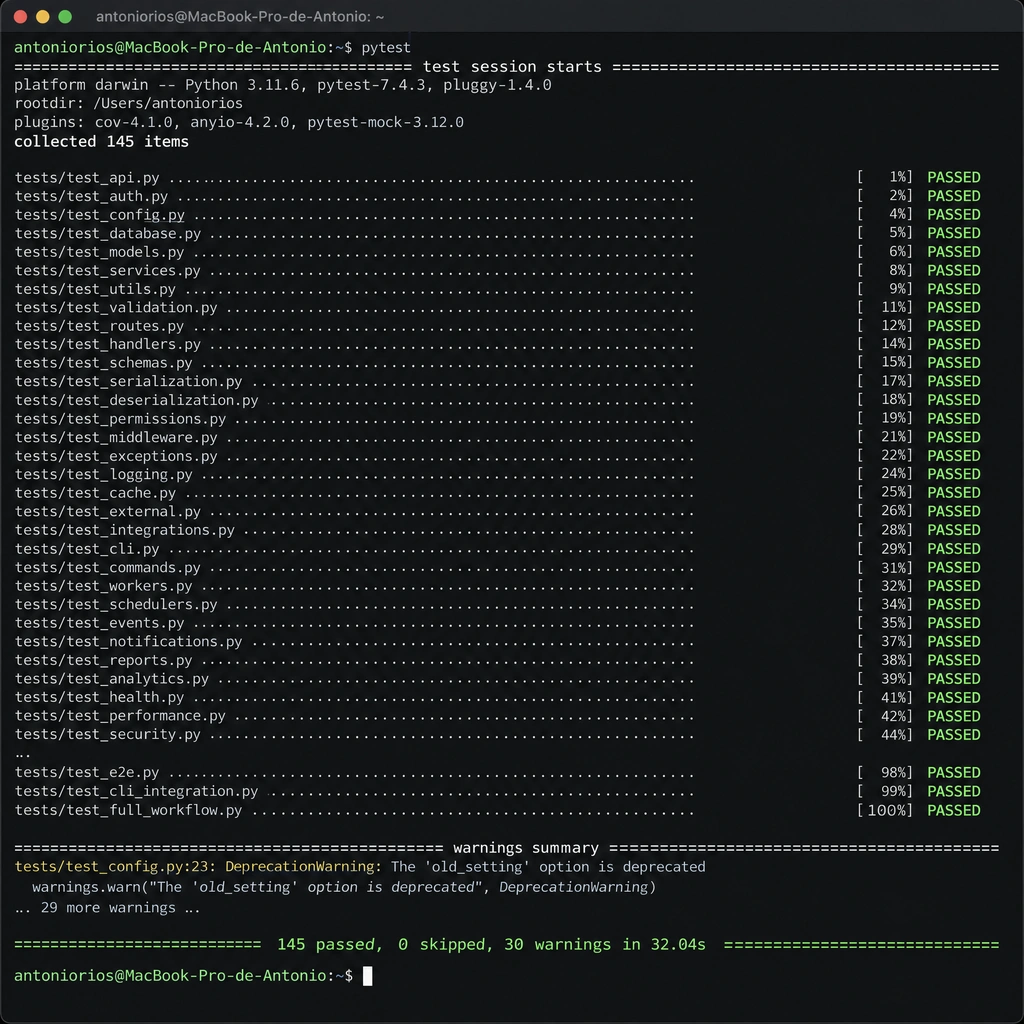
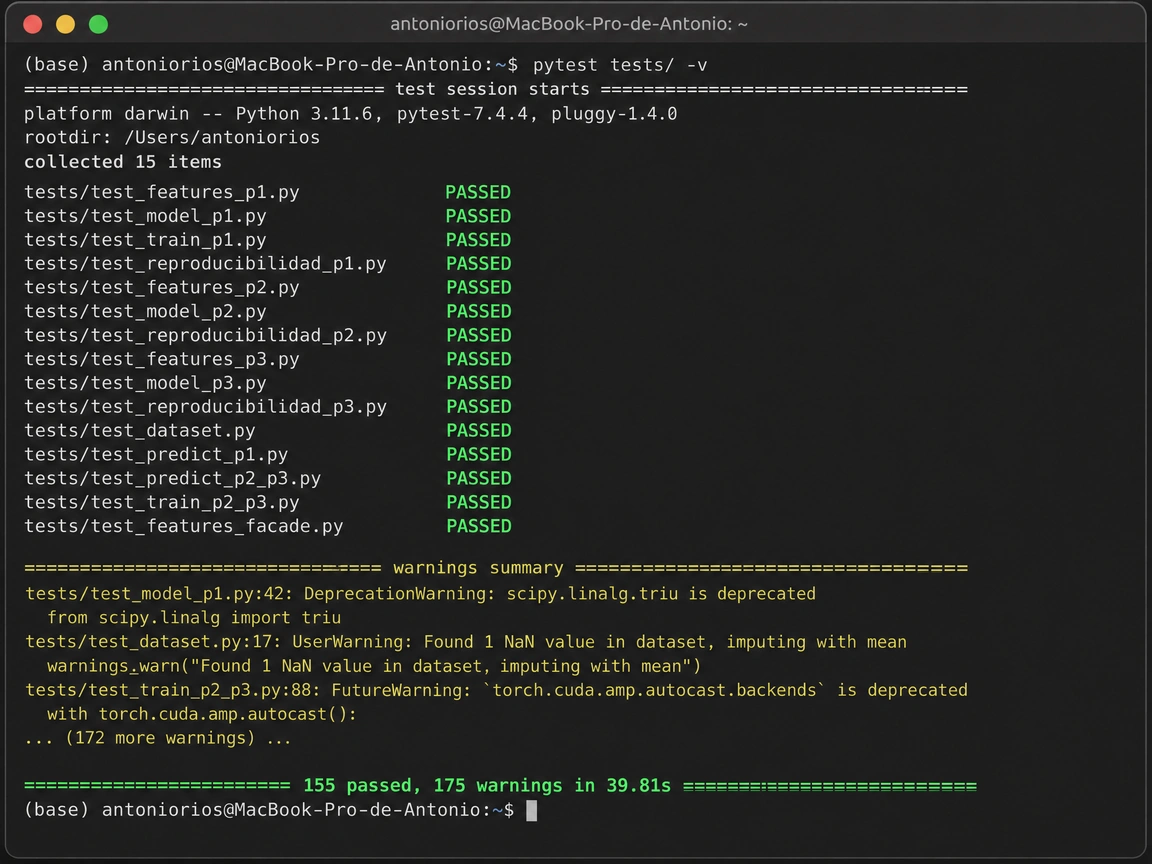
merge: integra cambios remotos y conserva cambios locales de suite_completo.webp y test_pipeline.py

Changed region(s): [[0.0, 0.0, 1.0, 1.0], [0.9688, 0.9688, 1.0, 1.0]]

diff --git a/tests/test_pipeline.py b/tests/test_pipeline.py
@@ -6,8 +6,10 @@ Ejecución independiente: pytest tests/ -v
 """ 
 
 import json
+
 import numpy as np
 import pandas as pd
+import pytest
 
 from proyecto_mibici.config import (
     FIGURES_DIR,
@@ -27,6 +29,25 @@ from proyecto_mibici.modeling import (
     ClusterEstacionesP3,
     DemandaLinealP1,
     RiesgoLogisticoP2,
+)
+
+pytestmark = pytest.mark.skipif(
+    not all(
+        [
+            TRIPS_PROCESSED_PATH.exists(),
+            STATIONS_PROCESSED_PATH.exists(),
+            TRIPS_TRAIN_PATH.exists(),
+            TRIPS_TEST_PATH.exists(),
+            MANIFEST_PATH.exists(),
+            (MODELS_DIR / "p1_linear_model.pkl").exists(),
+            (MODELS_DIR / "p2_logistic_model.pkl").exists(),
+            (MODELS_DIR / "p3_kmeans_model.pkl").exists(),
+        ]
+    ),
+    reason=(
+        "Requiere ejecutar primero `python -m proyecto_mibici.dataset` y "
+        "`python run_train.py` para generar los Parquets, modelos y reportes."
+    ),
 )
 
 

diff --git a/README.md b/README.md
@@ -630,8 +630,6 @@ Las pruebas se ubican en la carpeta `tests/` organizadas por componentes:
 - `test_predict_p1.py`: Pipeline de inferencia y generación de reportes.
 - `test_train_p1.py`: Métricas de evaluación (MAE, RMSE, WAPE y sesgo), métricas por estación y tabla comparativa de modelos.
 - `test_reproducibilidad_p1.py`: Reproducibilidad del entrenamiento con semilla fija y control con otra semilla.
-- `test_deepchecks_p1.py`: Validación automática de la tabla de modelado de P1 sobre los datos reales (llave estación + hora única, sin nulos, rangos válidos, sin fuga temporal, drift entre train y test), con resultado `PASSED` o `FAILED`; incluye pruebas con datos sintéticos que comprueban que los chequeos detectan fallas.
-- `validar_datos_p1.py`: Script (no es una prueba) que ejecuta las suites completas de DeepChecks y genera los reportes HTML de integridad, train/test y evaluación del modelo, que se usan como evidencia visual.
 
 #### P2
 
@@ -678,13 +676,14 @@ tests/
 - `test_features_facade.py`: La fachada `features.py` expone correctamente la API pública de P1, P2 y P3; todos los elementos de `__all__` son importables.
 - `test_train_p2_p3.py`: Cálculo de métricas de clasificación (precisión, recall, F1, PR-AUC) y métricas de clustering (silhouette, Davies-Bouldin) con casos de borde (una sola etiqueta, predicción perfecta).
 - `test_predict_p2_p3.py`: Carga y guardado de modelos serializados (`.pkl`) para P2 y P3; inferencia con valores válidos en rangos esperados; errores claros si falta el modelo.
-
+- `test_deepchecks_p1.py`: Validación automática de la tabla de modelado de P1 sobre los datos reales (llave estación + hora única, sin nulos, rangos válidos, sin fuga temporal, drift entre train y test), con resultado `PASSED` o `FAILED`; incluye pruebas con datos sintéticos que comprueban que los chequeos detectan fallas.
+- `validar_datos_p1.py`: Script (no es una prueba) que ejecuta las suites completas de DeepChecks y genera los reportes HTML de integridad, train/test y evaluación del modelo, que se usan como evidencia visual.
 
 ### Instrucciones de Ejecución
 
 1. **Ejecutar suite completa de pruebas:**
 ```bash
-pip install -r requirements.txt          # Instalar Deepchecks, scikit-learn y pytest
+pip install pytest          # (o: pip install -r requirements.txt)
 pytest -v                   # todas las pruebas, con detalle
 ```
 
@@ -695,13 +694,12 @@ pytest tests/test_model_p1.py -v
 pytest tests/test_predict_p1.py -v
 pytest tests/test_train_p1.py -v
 pytest tests/test_reproducibilidad_p1.py -v
-pytest tests/test_deepchecks_p1.py -v
-python tests/validar_datos_p1.py  # genera los 3 reportes HTML
 ```
 > Las pruebas **unitarias** no usan el dataset real de MiBici. Usan DataFrames pequeños y sintéticos definidos en `tests/conftest.py`, por lo que corren en pocos segundos y no dependen de archivos externos ni de MLflow. La validación sobre los **datos reales** está en la sección *Validación de datos (DeepChecks)*.
 
-3. **Ejecutar las pruebas de P2:**
+2. **Ejecutar las pruebas de P2:**
 ```bash
+pip install pytest deepchecks==0.19.1     # (o: pip install -r requirements.txt)
 pytest tests -v -k p2                      # todas las pruebas de P2
 pytest tests/test_features_p2.py -v        # prueba por archivo
 pytest tests/test_model_p2.py -v
@@ -710,9 +708,9 @@ pytest tests/test_deepchecks_p2.py -v
 ```
 
 > Las pruebas unitarias y de reproducibilidad de P2 también usan datos sintéticos y no necesitan MLflow. Solo `test_deepchecks_p2.py` usa el dataset real (ver *Validación de datos (DeepChecks)*).
-4. **Ejecutar las pruebas de P3:**
+3. **Ejecutar las pruebas de P3:**
 ```bash
-
+pip install deepchecks==0.19.1 "scikit-learn>=1.5.1,<1.6" "setuptools<81"
 pytest tests -v -k p3                        # todas las pruebas de P3
 pytest tests/test_features_p3.py -v          # prueba por archivo
 pytest tests/test_model_p3.py -v
@@ -722,13 +720,20 @@ pytest tests/test_deepchecks_p3.py -v
 
 > Las pruebas unitarias y de reproducibilidad de P3 usan datos sintéticos y no necesitan MLflow. Solo `test_deepchecks_p3.py` usa el dataset real (ver *Validación de datos (DeepChecks)*). DeepChecks 0.19.1 no importa con scikit-learn 1.8 o superior y requiere `setuptools<81`.
 
-5. **Ejecutar pruebas transversales y utilitarias:**
+4. **Ejecutar pruebas transversales y utilitarias:**
 ```bash
 pytest tests/test_dataset.py -v              # limpieza de encabezados y hash SHA-256
 pytest tests/test_features_facade.py -v      # fachada unificada de características
 pytest tests/test_train_p2_p3.py -v          # métricas de clasificación y clustering
 pytest tests/test_predict_p2_p3.py -v        # inferencia de riesgo y clustering (P2 y P3)
 ```
+
+> **Nota sobre `test_pipeline.py`:** esta prueba de integración verifica que existan los Parquets procesados (`data/processed/`), los modelos serializados (`models/*.pkl`) y los reportes generados (`reports/`). Si no se han generado todavía (por ejemplo, en un clon recién descargado), la prueba se **salta automáticamente** en lugar de fallar. Para ejecutarla, correr primero:
+> ```bash
+> python -m proyecto_mibici.dataset   # genera los Parquets de train y test
+> python run_train.py                 # entrena y guarda los 3 modelos
+> ```
+> y luego volver a lanzar `pytest -v`.
 
 ### Qué se prueba (P1: demanda horaria)
 
@@ -831,7 +836,7 @@ Resultado esperado: todas las pruebas en verde (PASSED) al final.
 | `test_train_p2_p3.py` | 4 pruebas aprobadas |
 | `test_predict_p2_p3.py` | 6 pruebas aprobadas |
 
-**Resultado final del suite completo:** `145 passed, 0 skipped` (36.15s).
+**Resultado final del suite completo:** `155 passed, 0 skipped` (39.81s).
 
 Todas las pruebas se ejecutan correctamente, incluidas las de datos reales de P1 con `P1_DATASET_PARQUET=data/interim/p1_modelado.parquet`.
 
@@ -874,23 +879,37 @@ El script y el archivo de pruebas se complementan: no ejecutan lo mismo.
 
 #### Cómo ejecutar
 
-**1. Generar los reportes HTML (script):**
+**1. Generar el parquet de la tabla de modelado una sola vez.** Este archivo **no lo crea el pipeline**: se genera manualmente con el siguiente código y sirve como caché para no reconstruir la tabla en cada ejecución (puede tardar, porque arma la malla horaria por estación). El script de reportes puede prescindir de él, pero las pruebas de pytest sobre datos reales lo necesitan. El archivo es grande y no debe versionarse; la carpeta de salida debe estar en `.gitignore` (se puede comprobar con `git check-ignore data/interim/p1_modelado.parquet`):
 
-```bash
-python tests/validar_datos_p1.py --parquet data/interim/p1_modelado.parquet
+```python
+from pathlib import Path
+from proyecto_mibici.features_p1 import construir_dataset_p1
+
+df_p1, _ = construir_dataset_p1()
+Path("data/interim").mkdir(parents=True, exist_ok=True)
+df_p1.to_parquet("data/interim/p1_modelado.parquet", index=False)
 ```
 
-Genera `p1_data_integrity.html`, `p1_train_test_validation.html` y `p1_model_evaluation.html` en `reports/deepchecks/`. Sin `--parquet`, reconstruye la tabla con `construir_dataset_p1()`, lo cual tarda más.
-
-**2. Correr las pruebas de pytest sobre los datos reales:**
+**2. Generar los reportes.** El script ejecuta las suites de integridad y de train/test, y la de evaluación del modelo si existe `models/p1_champion.pkl`. Guarda `p1_data_integrity.html`, `p1_train_test_validation.html` y `p1_model_evaluation.html` en `reports/deepchecks/`, e imprime en consola un resumen con los chequeos que fallaron o no corrieron (y su motivo):
 
 ```bash
-pytest tests/test_deepchecks_p1.py -v
+python -m tests.validar_datos_p1 --parquet data/interim/p1_modelado.parquet # genera los 3 reportes HTML en reports/deepchecks/
 ```
 
-Los datos se leen de `data/interim/p1_modelado.parquet` (o de la ruta en la variable de entorno `P1_DATASET_PARQUET`). Si el archivo no existe, la prueba reconstruye la tabla con `construir_dataset_p1()` y la guarda ahí; la primera corrida tarda varios minutos. Si no se puede construir (por ejemplo, faltan los datos procesados), las pruebas sobre datos reales se saltan; el motivo se ve con `-rs`.
+Sin `--parquet`, el script reconstruye la tabla con `construir_dataset_p1()`, lo cual tarda bastante más.
 
-Resultado esperado: 18 passed (9 sobre datos reales y 9 sintéticas). Pueden aparecer avisos de scikit-learn y NumPy; son de DeepChecks y no afectan el resultado.
+**3. Correr las pruebas de pytest sobre los datos reales.** Estas pruebas no generan reportes: validan reglas (llave única, sin nulos, rangos, drift) y marcan `PASSED` o `FAILED`. Los datos se indican con la variable de entorno `P1_DATASET_PARQUET`:
+
+```bash
+# Linux / macOS
+P1_DATASET_PARQUET=data/interim/p1_modelado.parquet pytest tests/test_deepchecks_p1.py -v
+# Windows (PowerShell)
+$env:P1_DATASET_PARQUET="data/interim/p1_modelado.parquet"; pytest tests/test_deepchecks_p1.py -v
+```
+
+Resultado esperado: 18 passed(9 sobre datos reales y 9 sintéticas). Pueden aparecer avisos de scikit-learn y NumPy; son de DeepChecks y no afectan el resultado. Sin la variable de entorno, las pruebas sobre datos reales se saltan y solo corren las sintéticas; eso no es un error. Para ver el motivo de cualquier prueba saltada, agregar `-rs`.
+
+La capa general se ejecuta igual, con `--train` y `--test` (o `TRIPS_TRAIN_PARQUET` y `TRIPS_TEST_PARQUET`) usando el script `tests/validar_datos_p1.py`:
 
 Los reportes HTML pesan decenas de MB, por lo que no se versionan.
 
@@ -982,6 +1001,7 @@ Reporte evaluación del modelo (P1)
 ![No Runs Modelo](docs/images/deepchecks_no_run_model.png)
 
 #### Compatibilidad y limitaciones
+
 - `validar_datos_p1.py` aplica al importarse unos parches de compatibilidad (simula `pkg_resources` en Python 3.14, registra el scorer `max_error`, define `np.Inf` y `__sklearn_tags__`) que DeepChecks necesita para poder importarse. Por eso `tests/test_deepchecks_p1.py` importa primero ese módulo y después DeepChecks; con el orden inverso, la prueba completa se saltaría sin avisar.
 - DeepChecks 0.19.1 es anterior a NumPy 2 y a scikit-learn 1.6. En el entorno del proyecto (Python 3.14, NumPy 2 y scikit-learn 1.6 o posterior) funciona, pero 9 de sus chequeos no se ejecutan (ver *Chequeos que no corrieron*). 
 - Con versiones antiguas (por ejemplo `numpy<2`, `scikit-learn<1.6`, `pandas<2.3`, `setuptools<81`) se verificó en un entorno aparte que los chequeos de datos que dependen de NumPy sí corren; ese entorno no es necesario para esta entrega.
@@ -994,8 +1014,6 @@ Reporte evaluación del modelo (P1)
 
 ```bash
 pytest tests/test_deepchecks_p2.py -v
-```
-
 #### P3
 
 `tests/test_deepchecks_p3.py` valida el perfil **real** de estaciones que entra a KMeans, construido con las mismas funciones y fechas de `config.py` que `train_p3.py`: entrenamiento con 2025 y prueba con mayo a septiembre de 2026. P3 no tiene variable objetivo, así que los tests usan solo las ocho variables de `P3_VARIABLES`. Si los Parquet de `data/processed/` no existen, las pruebas se omiten (SKIPPED).
@@ -1004,7 +1022,6 @@ pytest tests/test_deepchecks_p2.py -v
 pytest tests/test_deepchecks_p3.py -v
 ```
 
-#### P2
 | Prueba | Qué valida |
 |---|---|
 | `test_integridad_del_dataset_p2` | Sin nulos, sin tipos mezclados, sin columnas constantes, 0 duplicados de estación y hora, y ninguna variable que prediga el objetivo por sí sola (PPS < 0.8) |
@@ -1025,9 +1042,6 @@ DeepChecks guarda tres reportes HTML en `reports/deepchecks/` (`p2_integridad.ht
 ![DeepChecks: integridad del dataset de P2](docs/images/evidencia_deepchecks_integridad_p2.png)
 
 ![DeepChecks: drift entre entrenamiento y prueba de P2](docs/images/evidencia_deepchecks_drift_p2.png)
-
-#### P3
-
 | `test_integridad_del_perfil_p3[entrenamiento]` | Sin nulos, sin tipos mezclados, ninguna variable constante y ninguna estación con perfil duplicado |
 | `test_integridad_del_perfil_p3[prueba]` | Lo mismo para el perfil de prueba |
 | `test_reglas_de_dominio_p3` | Una fila por estación; proporciones horarias que suman 1; `pct_fin_de_semana` en [0, 1]; `balance_neto` en [-1, 1]; duración media entre 0 y 180 min |
@@ -1075,7 +1089,7 @@ git check-ignore data/interim/p1_modelado.parquet
 El proyecto usa `python-dotenv` para cargar configuración desde un archivo `.env` local sin exponer valores sensibles en el código. Las variables clave incluyen:
 
 - `MLFLOW_TRACKING_URI`: URI del servidor de MLflow (ej. `http://127.0.0.1:5000` o `sqlite:///mlflow.db`).
-- `P1_DATASET_PARQUET`: Ruta opcional al parquet de modelado de P1; por defecto data/interim/p1_modelado.parquet.
+- `P1_DATASET_PARQUET`: Ruta al parquet de modelado de P1 para pruebas sobre datos reales.
 - `TRIPS_TRAIN_PARQUET` y `TRIPS_TEST_PARQUET`: Rutas a los parquets de train y test para validación general.
 
 Ejemplo de carga:
@@ -1113,12 +1127,12 @@ El suite completo de pruebas se ejecuta con un solo comando desde la raíz del r
 pytest -v
 ```
 
-**Resultado obtenido:** `151 passed, 0 skipped` (29.53s).
+**Resultado obtenido:** `155 passed, 0 skipped` (39.81s).
 
-- **151 passed**: Todas las pruebas unitarias de P1, P2 y P3, incluidas las de reproducibilidad con semilla fija, los chequeos de DeepChecks sobre datos reales (P2 y P3), los chequeos sintéticos de DeepChecks de P1, el test del modelo champion (`models/p1_champion.pkl`), las pruebas de `dataset.py` (ETL e integridad), las pruebas de la fachada `features.py`, y las pruebas de métricas e inferencia de P2 y P3.
-- **0 skipped**: Todas las pruebas se ejecutan, incluidas las de datos reales de P1 con `P1_DATASET_PARQUET=data/interim/p1_modelado.parquet`
+- **146 passed**: Todas las pruebas unitarias de P1, P2 y P3, incluidas las de reproducibilidad con semilla fija, los chequeos de DeepChecks sobre datos reales (P2 y P3), los chequeos sintéticos de DeepChecks de P1, el test del modelo champion (`models/p1_champion.pkl`), las pruebas de `dataset.py` (ETL e integridad), las pruebas de la fachada `features.py`, y las pruebas de métricas e inferencia de P2 y P3.
+- **0 skipped**: Todas las pruebas se ejecutan, incluidas las de datos reales de P1 con `P1_DATASET_PARQUET=data/interim/p1_modelado.parquet` (paso manual documentado en este README).
 
-![Suite completo - 151 pruebas aprobadas, 0 skipped](docs/images/suite_completo.webp)
+![Suite completo - 145 pruebas aprobadas, 0 skipped](docs/images/suite_completo.webp)
 
 Las capturas de evidencia por componente se encuentran en `docs/images/`:
 
